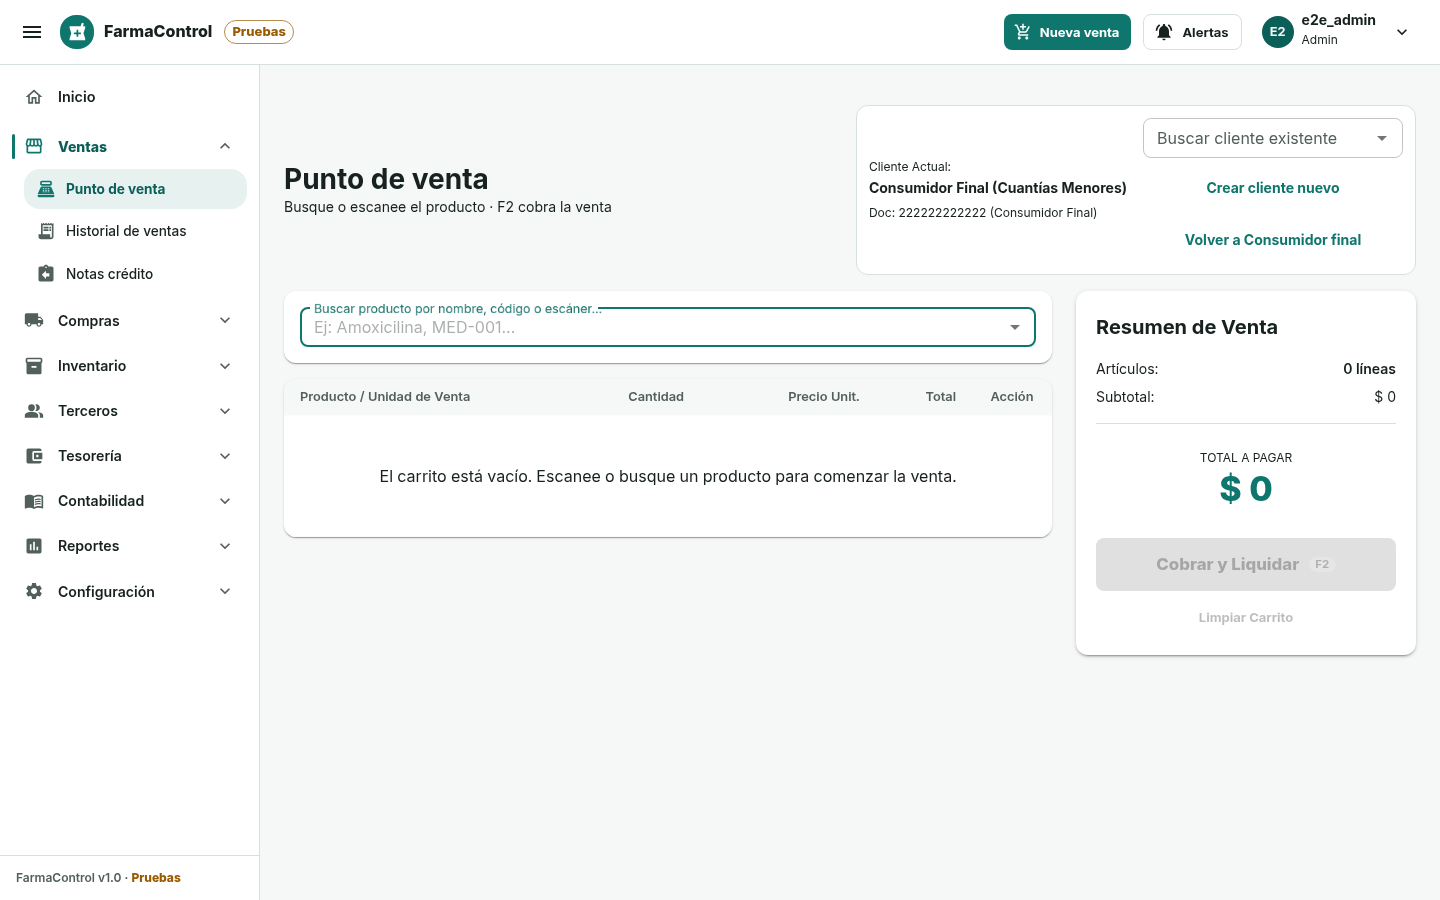
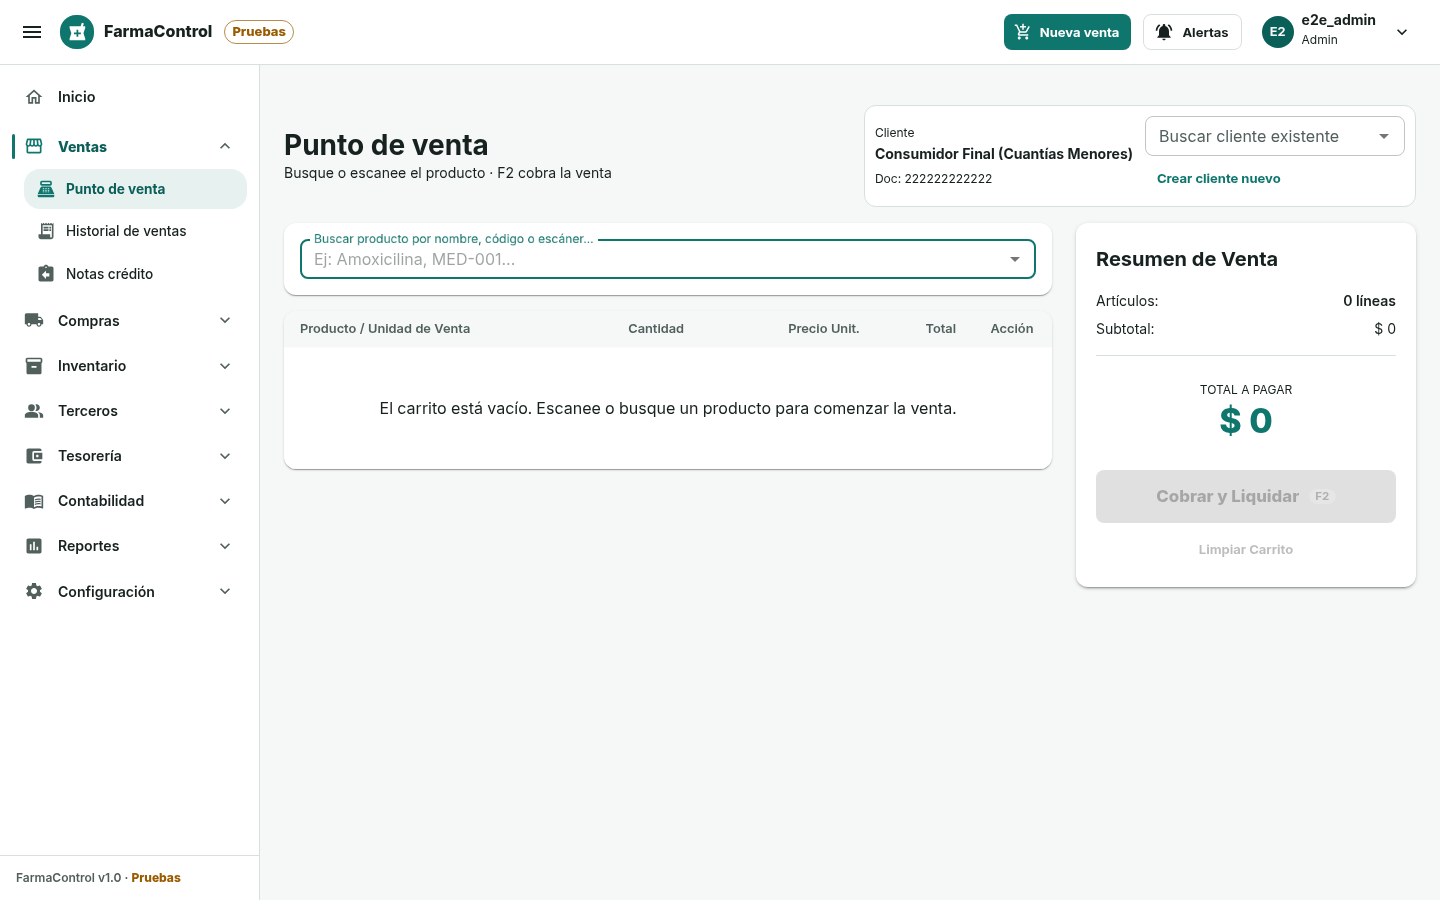
docs(rediseno): phase 2 closing report with keyboard sale and partial return E2E

diff --git a/tests/e2e/specs/redesign-phase2.spec.ts b/tests/e2e/specs/redesign-phase2.spec.ts
@@ -1,0 +1,124 @@
+import { mkdirSync } from 'node:fs';
+import path from 'node:path';
+import { expect, test, type Page } from '@playwright/test';
+import {
+  adminStateFile,
+  apiAs,
+  createStockedProduct,
+  loadFixtures,
+  lotQuantities,
+} from '../support/api';
+
+/**
+ * Criterio de aceptación de la fase 2 del rediseño (2026-11-14): una venta de prueba se completa
+ * con teclado, se ubica en el historial y desde su detalle se inicia una devolución parcial.
+ * Las capturas quedan en docs/rediseno/fase-2/ con datos creados por la propia corrida.
+ */
+const fixtures = loadFixtures();
+const shots = path.resolve(__dirname, '../../../docs/rediseno/fase-2');
+test.use({ storageState: adminStateFile });
+
+async function shot(page: Page, name: string) {
+  mkdirSync(shots, { recursive: true });
+  await page.screenshot({ path: path.join(shots, `${name}.png`), fullPage: true });
+}
+
+test('venta con teclado, ubicación en el historial y devolución parcial desde el detalle', async ({
+  page,
+}) => {
+  const admin = await apiAs(fixtures.admin.username, fixtures.admin.password);
+  const product = await createStockedProduct(admin, fixtures, {
+    name: 'Rediseño Teclado',
+    basePrice: 2500,
+    lots: [{ suffix: 'A', daysToExpire: 250, quantity: 30 }],
+  });
+  const lot = product.lots[0].lotNumber;
+
+  await page.setViewportSize({ width: 1440, height: 900 });
+  await page.goto('/pos');
+  const search = page.getByLabel(/Buscar producto por nombre/);
+  // Foco inicial en el buscador y cliente resuelto (nunca un «Cargando cliente…» persistente)
+  await expect(search).toBeFocused();
+  await expect(page.getByTestId('pos-customer')).not.toContainText('Cargando');
+
+  // Producto por código + Enter, tres unidades y F2 para cobrar: todo con teclado
+  await page.keyboard.type(product.code);
+  await page.keyboard.press('Enter');
+  const quantity = page.getByRole('spinbutton', { name: `Cantidad de ${product.name}` });
+  await expect(quantity).toHaveValue('1');
+  await quantity.focus();
+  await page.keyboard.press('ArrowUp');
+  await page.keyboard.press('ArrowUp');
+  await expect(quantity).toHaveValue('3');
+  await expect(page.getByRole('region', { name: 'Resumen de venta' })).toContainText('7.500');
+  await shot(page, 'pos-carrito-1440');
+
+  await page.keyboard.press('F2');
+  const payment = page.getByRole('dialog');
+  await expect(payment.getByLabel(/Efectivo Recibido/)).toBeFocused();
+  await page.keyboard.type('10000');
+  const confirmed = page.waitForResponse(
+    (r) => r.url().endsWith('/api/v1/sales/confirm') && r.request().method() === 'POST',
+  );
+  await page.keyboard.press('Enter');
+  const sale = (await (await confirmed).json()) as { id: string; invoiceNumber: string };
+  await expect(page.getByText(/Comprobante N°:/)).toBeVisible();
+  await shot(page, 'pos-comprobante-1440');
+
+  // Enter en el comprobante inicia otra venta y devuelve el foco al buscador
+  await page.keyboard.press('Enter');
+  await expect(search).toBeFocused();
+  await expect(page.getByText(/El carrito está vacío/)).toBeVisible();
+  await expect.poll(() => lotQuantities(admin, product.id)).toEqual({ [lot]: 27 });
+
+  // Se ubica en el historial y se abre su detalle
+  await page.goto('/sales');
+  await page.getByTestId(`sale-detail-link-${sale.id}`).click();
+  await expect(
+    page.getByRole('heading', { name: `Venta ${sale.invoiceNumber}`, level: 1 }),
+  ).toBeVisible();
+
+  // Devolución parcial con la factura precargada y el impacto visible antes de confirmar
+  await page.getByTestId('sale-detail-return-btn').click();
+  const note = page.getByRole('dialog');
+  await expect(note.getByText(`Factura ${sale.invoiceNumber}`)).toBeVisible();
+  await note.getByLabel(`Cantidad a devolver de ${product.name}`).fill('1');
+  await note.getByLabel('Motivo de la devolución').fill('Cliente devolvió una unidad sin abrir');
+  await expect(note.getByTestId('credit-note-review-lines')).toContainText(`1 × ${product.name}`);
+  const effects = note.getByTestId('credit-note-effects');
+  await expect(effects).toContainText('de la caja abierta como egreso en efectivo');
+  await expect(effects).toContainText('Las unidades vuelven a su lote original');
+  await shot(page, 'devolucion-revision-1440');
+  await note.getByRole('button', { name: 'Confirmar nota crédito' }).click();
+  await expect(page.getByText(/NC-\d+/).first()).toBeVisible();
+  await expect.poll(() => lotQuantities(admin, product.id)).toEqual({ [lot]: 28 });
+  await admin.dispose();
+});
+
+test('ventana estrecha: el total y el cobro quedan visibles sin desplazamiento horizontal', async ({
+  page,
+}) => {
+  const admin = await apiAs(fixtures.admin.username, fixtures.admin.password);
+  const product = await createStockedProduct(admin, fixtures, {
+    name: 'Rediseño Móvil',
+    basePrice: 1200,
+    lots: [{ suffix: 'A', daysToExpire: 250, quantity: 10 }],
+  });
+  await admin.dispose();
+
+  await page.setViewportSize({ width: 360, height: 780 });
+  await page.goto('/pos');
+  await page.getByLabel(/Buscar producto por nombre/).fill(product.code);
+  await page.getByRole('option', { name: new RegExp(product.code) }).click();
+  const bar = page.getByTestId('pos-mobile-total');
+  await expect(bar).toBeVisible();
+  await expect(bar).toContainText('1.200');
+  await expect(bar.getByRole('button', { name: 'Cobrar' })).toBeEnabled();
+  const box = await bar.boundingBox();
+  expect(box!.y + box!.height).toBeLessThanOrEqual(780 + 1);
+  const overflow = await page.evaluate(
+    () => document.documentElement.scrollWidth - document.documentElement.clientWidth,
+  );
+  expect(overflow).toBeLessThanOrEqual(1);
+  await shot(page, 'pos-360');
+});

diff --git a/docs/rediseno/FASE_2_CIERRE.md b/docs/rediseno/FASE_2_CIERRE.md
@@ -1,0 +1,134 @@
+# Rediseño FarmaControl — Cierre de la fase 2 (ventas y devolución de clientes)
+
+Fecha: 2026-11-14. Base: `def066b` (cierre de la fase 1). Sin migraciones ni variables de entorno nuevas.
+
+## Qué cambió
+
+### Punto de venta
+
+- **«Cargando cliente…» persistente (hallazgo de la fase 0).** El cliente de la venta tiene ahora cuatro estados visibles:
+  - cargando, con indicador;
+  - cliente asignado;
+  - sin Consumidor final activo;
+  - error de carga, con «Reintentar».
+
+  El error ya no se pierde en la consola.
+- **Decisión D2, resuelta con la regla vigente.** El servidor solo factura sin cliente si existe un Consumidor final activo; si no, responde 409 (`sale.service`). Por eso, cuando falta:
+  - el POS lo dice: «Sin cliente: no hay un Consumidor final activo. Elija un cliente para cobrar.»;
+  - el cobro queda bloqueado (botón, F2 y barra móvil) y se muestra el motivo debajo del botón;
+  - no se inventa ningún cliente.
+- **Selector de cliente más compacto.** Las acciones van en una fila de botones pequeños. «Volver a Consumidor final» se oculta cuando ese ya es el cliente, o cuando no existe.
+- **Teclado:**
+  - el foco inicial está en el buscador;
+  - Enter agrega el producto;
+  - F2 abre el cobro con el foco en «Efectivo recibido» y el valor seleccionado. Antes `autoFocus` no funcionaba dentro del `Dialog`; lo encontró la E2E nueva;
+  - Enter confirma, y Enter en el comprobante inicia otra venta con el foco de vuelta en el buscador;
+  - al cancelar el cobro, el foco también vuelve al buscador.
+- **Total siempre visible.**
+  - En escritorio, el resumen es fijo bajo la barra superior (`top: 80`).
+  - En pantallas sin columna lateral, una barra inferior muestra el total y «Cobrar».
+- **Comprobante (tirilla).** Ya no imprime «FARMACONTROL · Calle Principal # 12-34 · Barranquilla», un dato inventado señalado en la fase 0. Usa el membrete real de la empresa y omite lo que no esté configurado.
+
+### Servidor
+
+- **Nuevo `GET /api/v1/company/letterhead`.**
+  - **Causa:** el rol cajero no tiene `company:read`, así que la tirilla no podía leer `/company`. Además, ese endpoint expone las políticas contables.
+  - **Qué devuelve:** solo razón social, nombre comercial, NIT, dígito de verificación, dirección, teléfono y correo, con la forma `{ company: … | null }`.
+  - **Acceso:** requiere sesión y al menos uno de `company:read`, `sales:read`, `sales:create` o `purchases:read`.
+- **D5: Consumidor final protegido desde Terceros.** Los métodos `setActive`, `update` y `upsert` de `CustomersLedger` ahora rechazan inactivar el cliente predeterminado, con la misma excepción que ya usaba `CustomerService`. El rechazo ocurre dentro de la transacción del tercero, así que no queda nada a medias: ni el cliente ni el tercero quedan inactivos.
+
+### Devolución (nota crédito)
+
+- **Fallo corregido: el resumen del paso 4 se quedaba en $0,00.**
+  - **Causa:** `watch()` devuelve siempre el mismo objeto `quantities` (React Hook Form lo muta en sitio), y el resumen estaba memoizado por referencia.
+  - **Arreglo:** ahora se calcula en cada render.
+- **Revisión antes de confirmar.**
+  - Lista las líneas a devolver («1 × Producto — $…»).
+  - Muestra el efecto en cada área, en texto:
+
+    | Área | Qué indica |
+    | --- | --- |
+    | Caja | Egreso de la caja abierta, o «sin movimiento» |
+    | Cartera | Baja del saldo del cliente, o «sin cambios» |
+    | Bancos | Solo con transferencia |
+    | Inventario | Vuelve al lote original, o se da de baja |
+    | Cambio | Abre el punto de venta para la venta de reemplazo |
+
+  - Los textos siguen lo que hace `credit-notes.service`: el reembolso en efectivo es un egreso de caja, no un comprobante de egreso de tesorería.
+- **Medio de pago original** con su nombre («Efectivo») en lugar del código interno.
+- **Se mantiene sin cambios:**
+  - acceso desde el detalle de la venta, con la factura precargada, y desde Notas crédito / Historial;
+  - cantidades vendida, ya devuelta y disponible, con el lote;
+  - motivo, reembolso, reintegro y cambio de producto;
+  - clave de idempotencia por contenido y bloqueo de doble envío.
+
+## Archivos principales
+
+| Área | Archivos |
+| --- | --- |
+| API | `apps/api/src/modules/customers/application/customers-ledger.ts`, `apps/api/src/modules/company/application/company.service.ts`, `apps/api/src/modules/company/presentation/company.controller.ts`, `packages/contracts/src/company.ts` |
+| Web | `apps/web/src/features/sales/pages/PosPage.tsx`, `apps/web/src/features/sales/components/PosCustomerSelector.tsx`, `apps/web/src/features/sales/components/PosPaymentDialog.tsx`, `apps/web/src/features/sales/components/SaleReceiptDialog.tsx`, `apps/web/src/features/sales/components/CreditNoteDialog.tsx`, `apps/web/src/features/company/hooks/useCompanyLetterhead.ts`, `apps/web/src/features/company/api/company.api.ts` |
+| Pruebas | `apps/api/test/integration/third-parties.controller.integration.spec.ts`, `apps/api/test/integration/company.integration.spec.ts`, `apps/web/test/pos.test.tsx`, `apps/web/test/sale-detail.test.tsx`, `tests/e2e/specs/redesign-phase2.spec.ts` |
+
+## Pruebas ejecutadas
+
+### En código
+
+| Comando | Resultado |
+| --- | --- |
+| `pnpm typecheck` | 0 errores (api, web, worker) |
+| `pnpm lint` | 0 errores; advertencias iguales a la línea base (web 40, api 98) |
+| `npx vitest run` (web) | 55 archivos, 399 pruebas: todas pasan |
+| `pnpm build` (web) | correcto |
+| `pnpm test` API con PostgreSQL efímero: clientes, terceros unificado, alcance de terceros, controlador de terceros, empresa, OpenAPI | 6 archivos, 37 pruebas: todas pasan |
+
+Pruebas nuevas:
+
+- **Servidor:**
+  - Consumidor final no inactivable desde terceros, con reversión completa (400);
+  - membrete visible para caja con `/company` en 403 y sin sesión en 401.
+- **Web:**
+  - sin Consumidor final;
+  - error con reintento;
+  - foco tras cobrar;
+  - devolución parcial desde el detalle con su impacto.
+
+### En navegador (Playwright, Chromium, `APP_ENVIRONMENT=pruebas`)
+
+Suite E2E completa: 15 pasan y 5 omitidas, que son las mismas omitidas de la fase 1.
+
+- La única falla fue el selector `getByText('TOTAL A PAGAR')` de `pos-fefo`. Encontraba también el texto de la barra móvil oculta. Se cambió ese texto a «Total · N líneas» y `pos-fefo` y la fase 2 volvieron a pasar (4/4).
+- `redesign-phase2.spec.ts` cubre:
+  - **Criterio de aceptación.** Con datos creados por la corrida (producto «Rediseño Teclado», lote de 30 unidades):
+    - venta de 3 unidades solo con teclado;
+    - ubicación de la venta en el historial y apertura del detalle;
+    - devolución parcial de 1 unidad con el impacto visible;
+    - el lote queda en 27 tras la venta y en 28 tras la devolución.
+  - **Ventana de 360 px:** barra de total visible, cobro habilitado y sin desplazamiento horizontal.
+- Capturas en `docs/rediseno/fase-2/`:
+  - `pos-carrito-1440.png`
+  - `pos-comprobante-1440.png`
+  - `devolucion-revision-1440.png`
+  - `pos-360.png`
+- Las capturas de la fase 1 se regeneraron en la misma corrida.
+
+En las capturas de página completa a 360 px, la barra fija aparece superpuesta al resumen. Es un efecto de la captura: en pantalla queda anclada al borde inferior.
+
+No se verificó en el ambiente Vida Sana (sin acceso).
+
+## Decisiones
+
+- **D2:** se aplica la regla existente del servidor, sin regla nueva.
+- **D5:** implementada en el servidor.
+- **Membrete:** se expone con un endpoint propio y no con más permisos para caja. Así `company:read` sigue protegiendo las políticas contables.
+
+## Pendientes
+
+- `PrintableDocumentLayout` y `useCompanyInfo` todavía rellenan datos ficticios («NIT: 900.000.000-1», «contacto@farmacontrol.com»). Pasan a la fase 4 (documentos e impresión), donde deben usar el membrete.
+- D1 (corrección atómica de documentos de tesorería) y D3 (anulación de notas débito) siguen abiertas para las fases 3 y 4.
+- `PosPaymentDialog.tsx` ya estaba sin formato Prettier antes de esta fase. Se dejó así para no mezclar un cambio masivo de formato.
+- La auditoría de seguridad independiente (`codex-auditor`) no se ejecutó en esta fase. El endpoint nuevo se revisó a mano: guarda de sesión y permisos, campos mínimos y pruebas de 401 y 403.
+
+## Siguiente paso
+
+Fase 3: compras, inventario y terceros.
